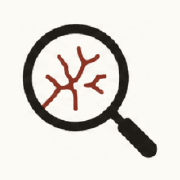
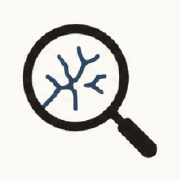
ui

Changed region(s): [[0.2222, 0.25, 0.5556, 0.6111], [0.4722, 0.3889, 0.6111, 0.5278]]

diff --git a/assets/style.css b/assets/style.css
@@ -15,10 +15,10 @@
   --muted:         #6b6658;
   --border:        #e7e1d3;
   --border-strong: #d3cab6;
-  --accent:        #8a3324;
-  --accent-hover:  #6d2618;
-  --accent-soft:   #f6ebe6;
-  --accent-line:   #dcb5a9;
+  --accent:        #2f4560;   /* faded navy: 9.4:1 on the cream */
+  --accent-hover:  #27394f;
+  --accent-soft:   #e6ebf1;
+  --accent-line:   #b3bfcc;
   --on-accent:     #ffffff;
   --warn-soft:     #fbf1de;
   --warn-line:     #e0c186;
@@ -46,11 +46,11 @@
   --muted:         #9d9584;
   --border:        #373227;
   --border-strong: #4a4335;
-  --accent:        #e08a6e;
-  --accent-hover:  #eda88f;
-  --accent-soft:   #2e211b;
-  --accent-line:   #5d4034;
-  --on-accent:     #17150f;   /* the light clay accent needs dark text on it */
+  --accent:        #a7b9cc;
+  --accent-hover:  #c0cede;
+  --accent-soft:   #1d232b;
+  --accent-line:   #3d4a59;
+  --on-accent:     #17150f;   /* the light blue accent needs dark text on it */
   --warn-soft:     #2c2417;
   --warn-line:     #6b5527;
   --warn-ink:      #e6c58a;
@@ -656,7 +656,7 @@ a.tag:hover { color: var(--accent); }
     --bg: #fff; --bg-alt: #fff; --surface: #fff; --surface-alt: #f4f4f4;
     --text: #000; --text-soft: #222; --muted: #555;
     --border: #ccc; --border-strong: #999;
-    --accent: #7a2a1d; --accent-soft: #f6ebe6; --accent-line: #c9a397;
+    --accent: #263a52; --accent-soft: #e6ebf1; --accent-line: #a9b6c4;
     --warn-soft: #fff; --warn-line: #b08a3e; --warn-ink: #5c3d0a;
   }
   .site-header, .site-footer, .pager, .toc, .subscribe, .skip, .gloss-pop,
